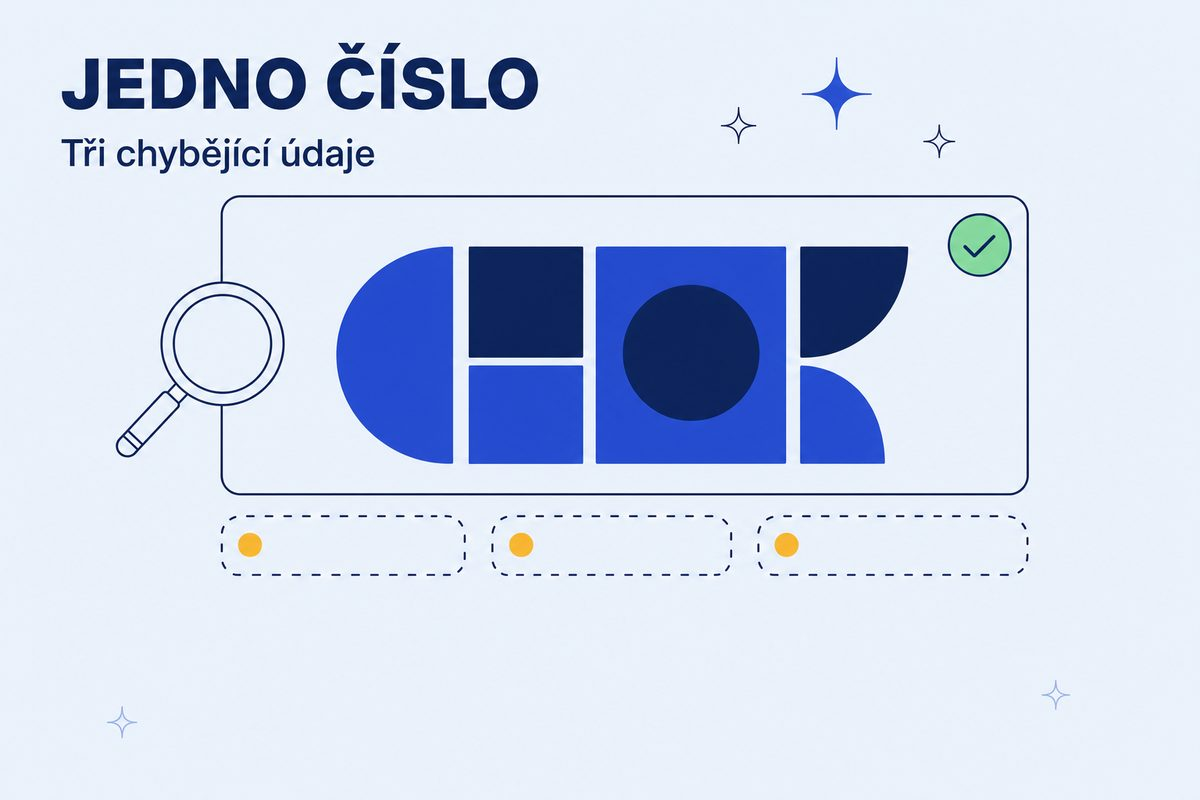
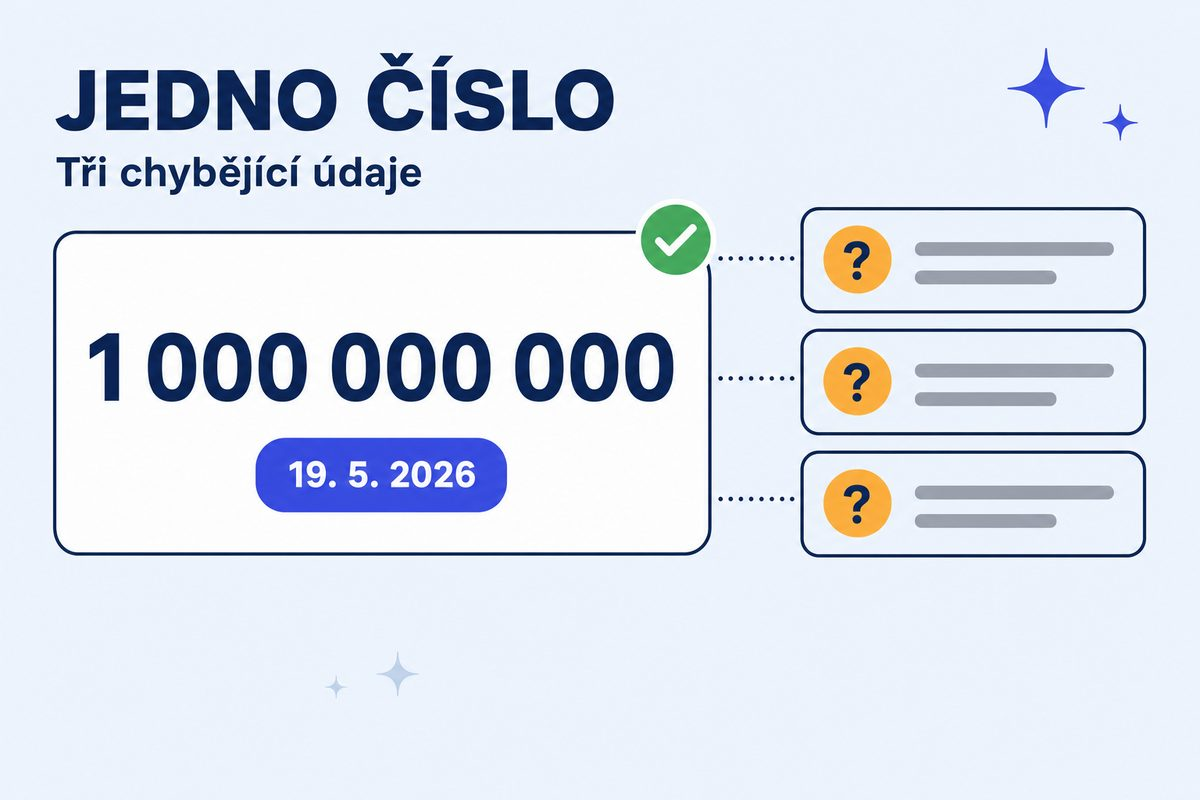
OG obrázky ai-mode-cesky + miliarda-uzivatelu-ai-mode zpátky do sady
Oba byly prázdné kostry — jeden panel s placeholder řádky a beztvarý blob.
Reklamace uživatele, potřetí v této session.

Příčina byla jiná než u předchozích dvou: preambule z §5 i CZ nadpis seděly,
ale k promptu jsem si přidal vlastní STRICT NO-TEXT-IN-SCENE RULE a podmíněný
zákaz číslic z dodatku (b) použil plošně — u článku, jehož tématem je jedno
konkrétní číslo. Model oba zákazy poslechl doslova a scénu vyprázdnil.

Přegenerováno podle §5 bez vlastních dodatků, scéna popsaná objekty místo
nepřítomností: okno prohlížeče s vybraným AI Mode tabem a panelem odpovědi
se třemi zdrojovými chipy; stat karta s vykresleným 1 000 000 000, datem
19. 5. 2026 a třemi kartami s otazníkem.

IMAGE_GUIDE.md: do varovného boxu přibyla třetí varianta selhání (vlastní
pravidla v promptu, scéna popsaná nepřítomnostmi) a dodatek (b) je nově
označený jako podmíněný, ne výchozí.

diff --git a/blogger/IMAGE_GUIDE.md b/blogger/IMAGE_GUIDE.md
@@ -16,11 +16,30 @@
 > **Nepiš prompt od nuly podle vlastního citu.** Zkopíruj preambuli z §5, doplň jen
 > scénu + CZ nadpis a podtitul. Pozadí je **světle modro-šedé**, ne tmavé.
 >
+> **Do promptu nepřidávej vlastní pravidla.** Dodatky v §5 jsou úplný seznam. Když si vymyslíš
+> další zákaz, model ho poslechne doslova a vyprázdní scénu. Konkrétně: **nikdy nepiš
+> `STRICT NO-TEXT-IN-SCENE RULE`** ani nic v tom smyslu. Zákaz `no text` z odstavce výš se
+> týká **náhrady CZ nadpisu**, ne popisků uvnitř scény — schválené obrázky sady popisky mají
+> (`javascript-a-ai-roboti.png` má ve scéně cenovku „1 290 Kč").
+>
+> **Scénu popisuj předměty, ne nepřítomností.** „Prázdné sloty", „dashed outline naznačující
+> chybějící údaj", „abstraktní tvar z geometrických bloků" nejsou scéna — model je vykreslí
+> doslova a vznikne prázdná kostra. Sada stojí na **konkrétních rozpoznatelných objektech**
+> (okno prohlížeče s tečkami v liště, dokument s řádky textu, robot, brána, trychtýř, řada
+> přepínačů) a nejčastěji na **dvojici v kontrastu** — dva stavy vedle sebe se zeleným ✓
+> a jantarovým ✗. Objekty mají **plné barevné výplně**, ne jen obrysy, a zabírají horní dvě
+> třetiny; drobná linková ikonka uprostřed prázdné plochy je v náhledu na kartě nečitelná.
+>
 > *(Historie: v runech 51–62 vznikla série tmavých abstraktních obrázků bez textu, protože
 > se prompty psaly ad-hoc a obsahovaly „absolutely no text". Přegenerováno 2026-07-27.
 > **Přesně totéž se zopakovalo v runech 81–86** — čtyři tmavé obrázky bez textu, opět proto,
-> že se prompt psal od nuly místo kopie preambule. Přegenerováno 2026-08-03. Když se přistihneš,
-> že píšeš `#0B0D10`, `violet` nebo `no text`, jsi mimo sadu — zastav a zkopíruj §5.)*
+> že se prompt psal od nuly místo kopie preambule. Přegenerováno 2026-08-03. **Potřetí
+> v runech 120–121**, tentokrát jinou cestou: preambule i CZ nadpis seděly, ale k promptu
+> jsem si přidal vlastní `STRICT NO-TEXT-IN-SCENE RULE` a dodatek (b) o číslicích jsem
+> použil plošně — u článku, jehož tématem je jedno konkrétní číslo. Výsledkem byla prázdná
+> kostra panelu a beztvarý blob. Přegenerováno 2026-08-15. Když se přistihneš, že píšeš
+> `#0B0D10`, `violet`, `no text`, `abstract shape` nebo vlastní `RULE:`, jsi mimo sadu —
+> zastav a zkopíruj §5.)*
 
 ---
 
@@ -159,14 +178,21 @@ canvas. The bottom third must be empty light background with at most one or two 
 stars, because it gets cropped away.
 ```
 
-**b) Zakaž modelu vymýšlet čísla.** Když je ve scéně cokoli, co vypadá jako údaj (procenta,
-částky, metriky), model si je vymyslí — a nebudou souhlasit s článkem. U článku o tom, že se
-čísla přebírají špatně, je to obzvlášť trapné. Buď do promptu napiš přesnou hodnotu, kterou má
-vykreslit, nebo přidej:
+**b) Zakaž modelu vymýšlet čísla — ale jen když ve scéně žádné být nemají.** Když je ve scéně
+cokoli, co vypadá jako údaj (procenta, částky, metriky), model si je vymyslí — a nebudou
+souhlasit s článkem.
+
+**Přednostní řešení je napsat do promptu přesnou hodnotu**, kterou má vykreslit. Plošný zákaz
+je až druhá volba pro scény, kde číslo nemá co dělat:
 
 ```
 IMPORTANT: do not draw any digits, numbers, percentages or figures anywhere in the scene.
 ```
+
+> ⛔ **Nepoužívej ten zákaz jako výchozí nastavení.** Je podmíněný, ne povinný. U článku,
+> jehož tématem je konkrétní číslo, ho nedávej vůbec — vykresli to číslo. Zákaz plus formulace
+> typu „the bold shape must be abstract geometry, never a numeral" vyrobí beztvarý blob
+> (`miliarda-uzivatelu-ai-mode`, run 121, přegenerováno).
 
 **e) Diakritiku v nadpisu si přečti nahlas — ověřeno 2026-08-04.** Model vykreslí přesně to,
 co v promptu stojí. Když do promptu napíšeš `OBRAZKY`, dostaneš `OBRAZKY` bez čárky a je to
